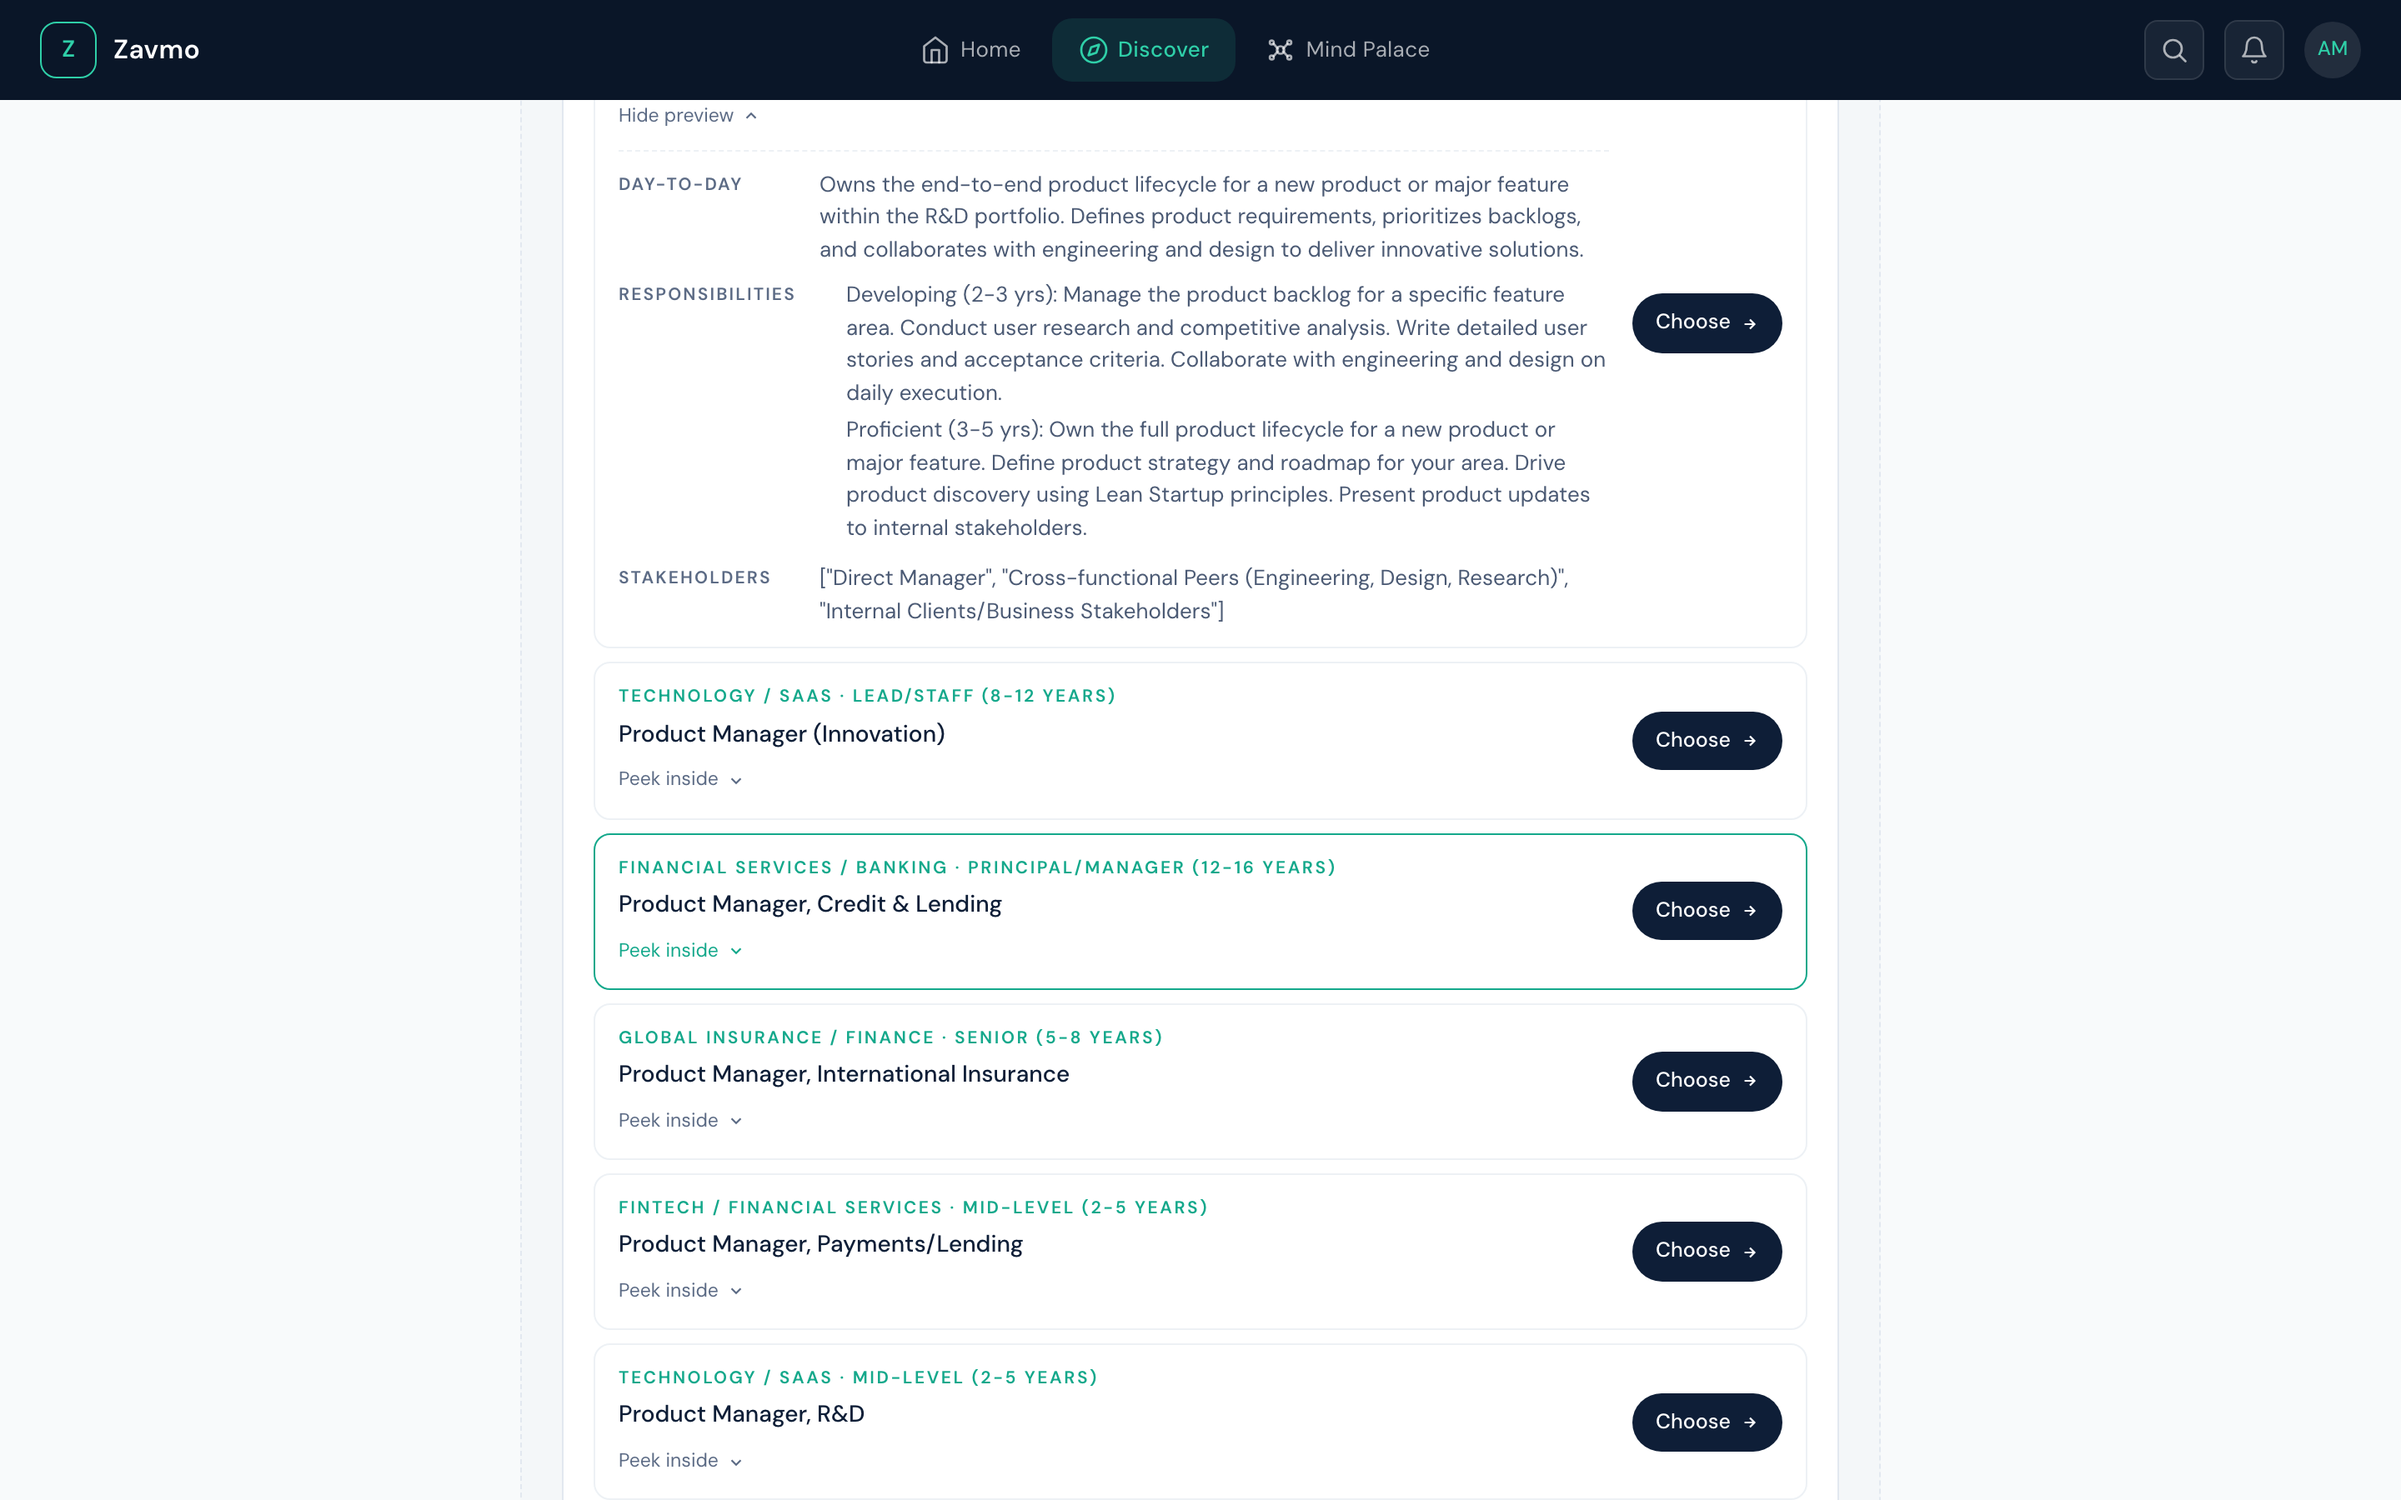
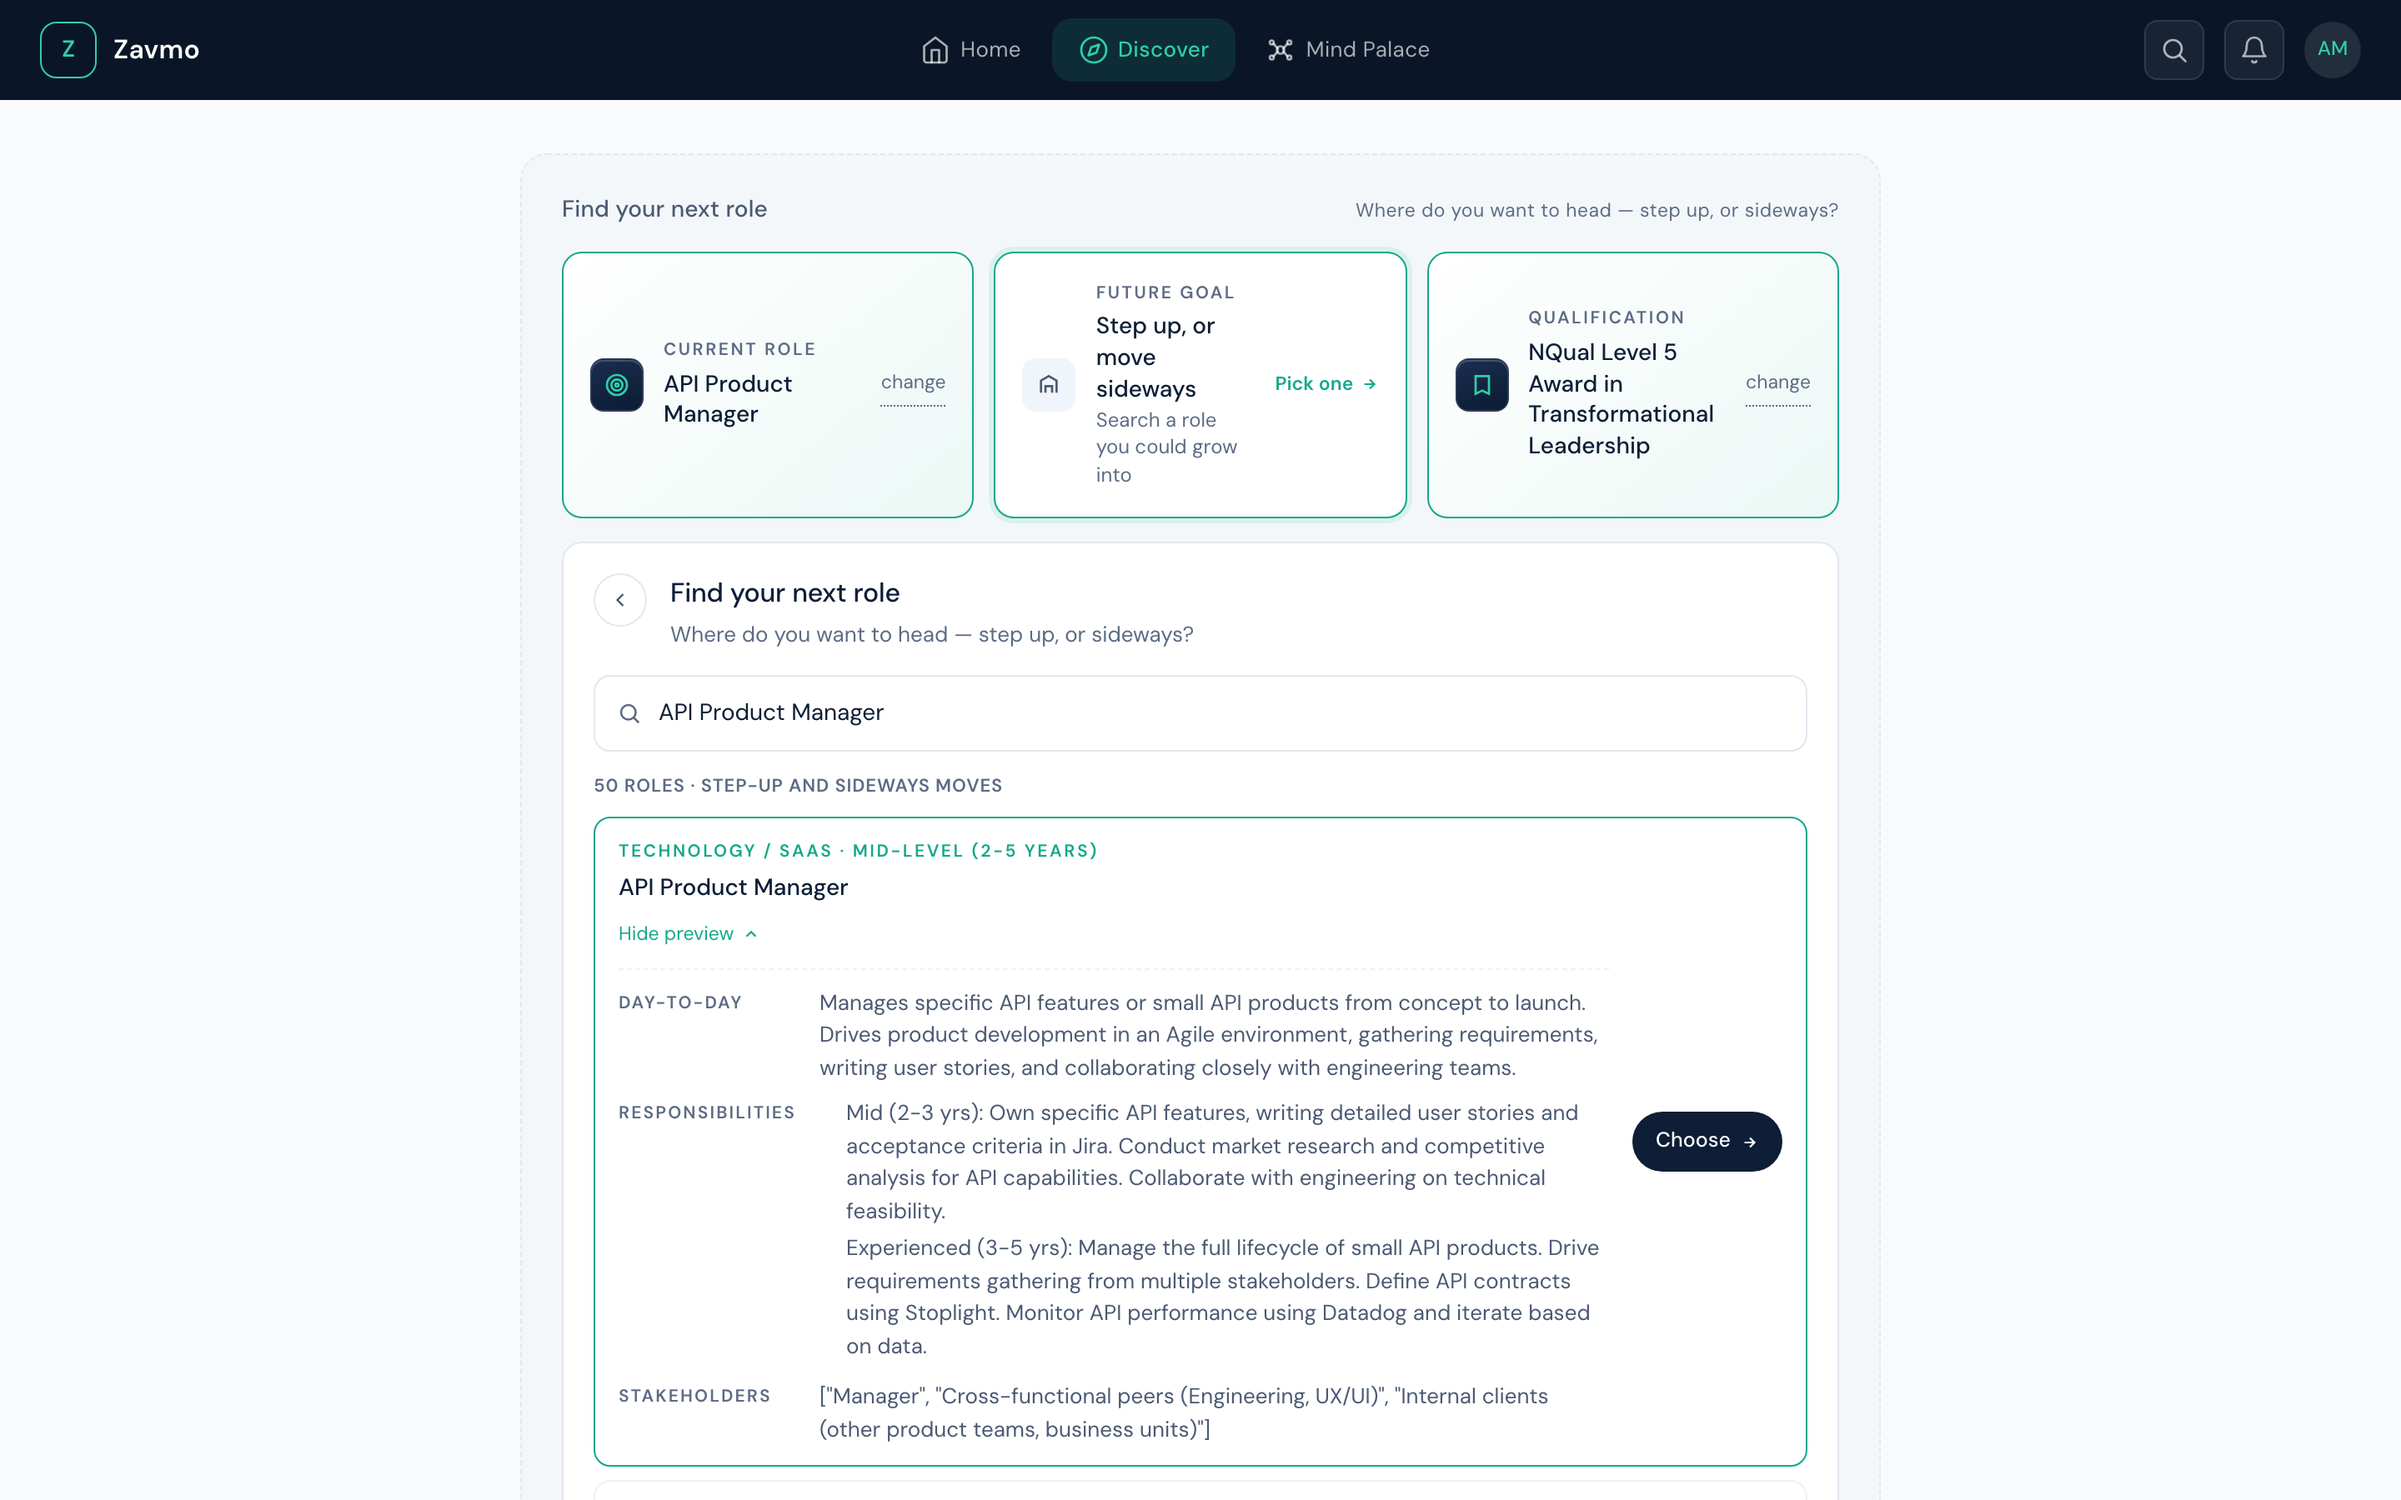
learner deck: show the learner's own full job description (API Product Manager)
The JD slide now leads with the learner's actual role as a complete job
description — day-to-day, responsibilities by experience band, stakeholders —
instead of reading like a search list.

diff --git a/learner-journey/index.html b/learner-journey/index.html
@@ -125,7 +125,7 @@ const S=[
   { img:'12.png', eyebrow:'In the app', title:'Home', caption:'A personalised dashboard: where you are, where you’re heading, and a clear next step — with Zavmo narrating what it has noticed.' },
 
   { section:true, num:'PART 4', title:'Discover & assess', sub:'Choose a real qualification, then prove where you actually stand.' },
-  { img:'27.png', eyebrow:'Discover · Job description', title:'The full job description', caption:'Discover offers three ways in — current role, future goal, or qualification. And the learner sees the whole job: the real day-to-day, every responsibility broken down by experience band (developing vs. proficient), and exactly who they’ll work with. No guessing what the role actually demands.' },
+  { img:'27.png', eyebrow:'Discover · Your job description', title:'See your whole role, in full', caption:'Here’s the learner’s own role — API Product Manager — as a complete job description: the real day-to-day, every responsibility broken down by experience band (Mid vs. Experienced), and exactly who they work with. The learner sees precisely what their role demands — and what the learning is building them toward. No guesswork.' },
   { img:'14.png', eyebrow:'Discover · Qualification', title:'Benchmarked to national standards', caption:'Every qualification is benchmarked against recognised national standards — so a learner knows what they’re studying is the real thing, the highest quality, with genuine credits, units and an awarding body behind it. Not invented content.' },
   { img:'35.png', eyebrow:'Discover · Inside the qualification', title:'See exactly what you’ll learn', caption:'Open any unit and the full standard is laid bare — the National Occupational Standard it maps to, its level, every Performance Criterion (what you must be able to do) and every Knowledge Requirement (what you must understand). The real substance of the learning, in the open — a huge benefit for a learner deciding what to commit to.' },
   { img:'15.png', eyebrow:'Discover · Your path', title:'Pick your path', caption:'Current role, a future goal, and a nationally-recognised qualification come together — the destination is set, and Zavmo can now design the learning backwards from it.' },
